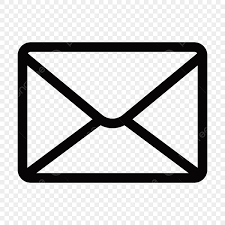
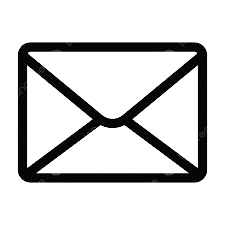
first commit

diff --git a/components/ContactComponent.tsx b/components/ContactComponent.tsx
@@ -2,25 +2,29 @@
 // MyComponent.jsx
 import React from 'react';
 import myImage from 'public/images/Ahmad.png';
+import github from 'public/images/github.png';
+import linkedin from 'public/images/linkedIn.png';
+import email from 'public/images/email.png';
+import resume from 'public/images/resume.png';
 
 function HomeComponent() {
   return (
     <div className='flex'>
         <div className=' text-[24px] font-extrabold justify-between align-middle content-center'>
             <div className='flex ml-24 mr-10 mt-20 '>
-                <img className="w-10 h-10" src='/images/email.png' alt="email" />
+                <img className="w-10 h-10" src= {email.src} alt="email" />
                 <a className='ml-4 text-sky-700 hover:underline' href= "mailto:ahmad.issa.yes@gmail.com">ahmad.issa.yes@gmail.com </a>
             </div>
             <div className='flex ml-24 mr-10 mt-6 '>
-                <img className="w-10 h-10" src='images/linkedin.png' alt="linkedin" />
+                <img className="w-10 h-10" src={linkedin.src} alt="linkedin" />
                 <a className='ml-4  text-sky-700 hover:underline' href= "https://www.linkedin.com/in/ahmad-issa-02l/">https://www.linkedin.com/in/ahmad-issa-02l/ </a>
             </div>
             <div className='flex ml-24 mr-10 mt-6 '>
-                <img className="w-10 h-10" src='images/github.png' alt="github" />
+                <img className="w-10 h-10" src={github.src} alt="github" />
                 <a className='ml-4  text-sky-700 hover:underline' href= "https://github.com/AhmadIssa02">https://github.com/AhmadIssa02 </a>
             </div>
             <div className='flex ml-24 mr-10 mt-6 '>
-                <img className="w-10 h-10" src='images/resume.png' alt="resume" />
+                <img className="w-12 h-12" src={resume.src} alt="resume" />
                 <a className='ml-4  text-sky-700 hover:underline' href="/resume.pdf" download> Download Resume </a>
             </div>
         </div>
